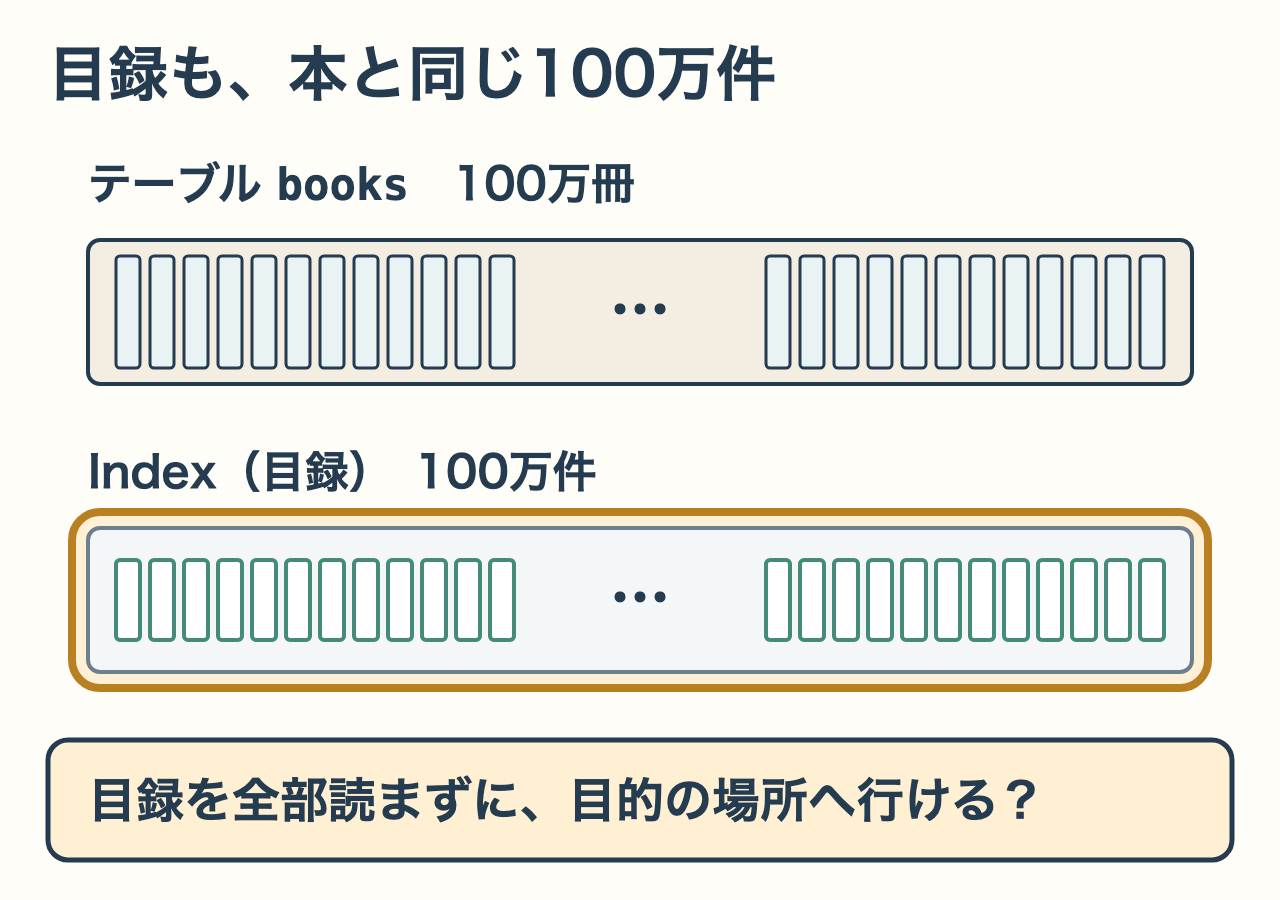
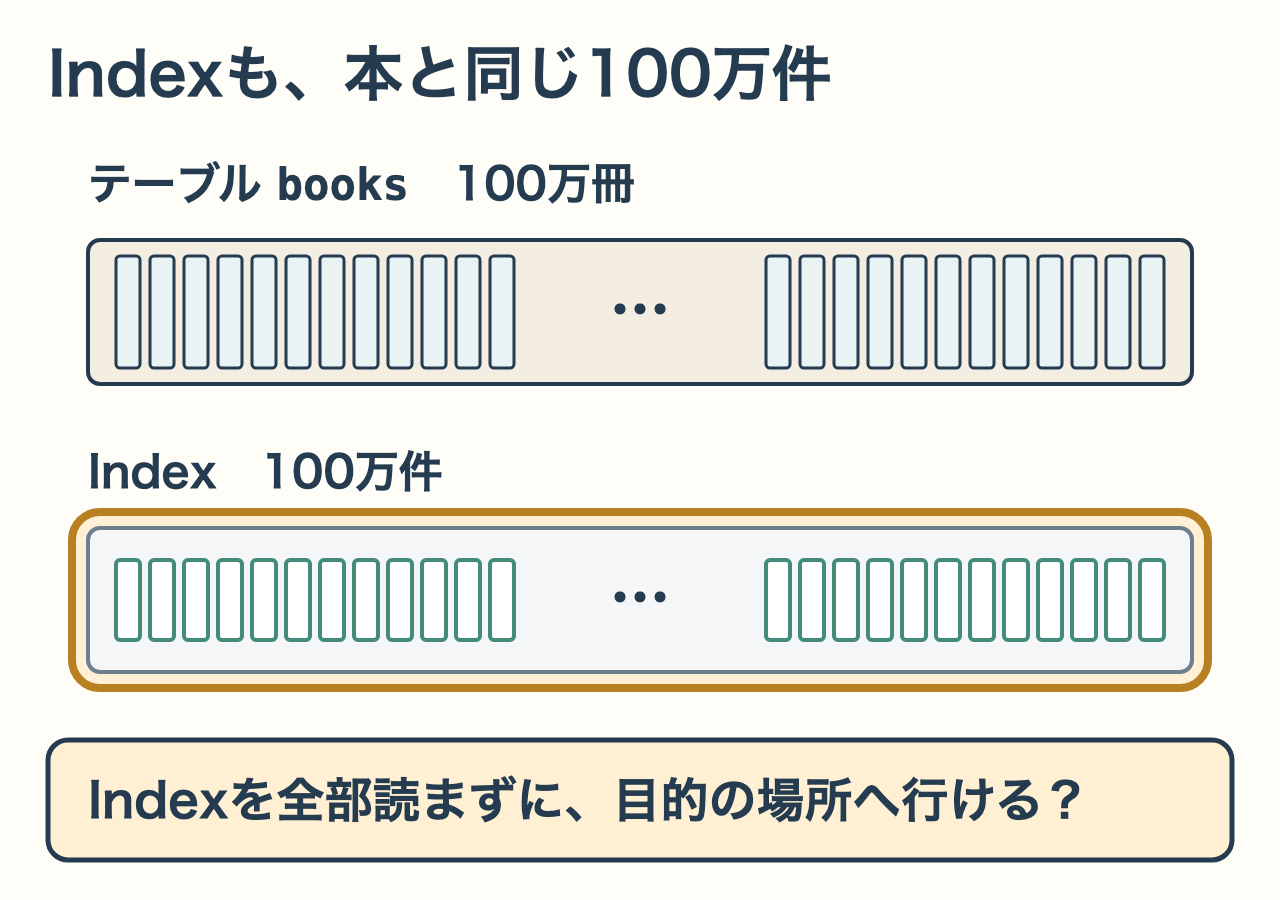
docs(query-journey): 「目録」の言い換えをやめ、Indexと呼ぶ
「目録」がピンとこないという読者の指摘に対応する。第1章でIndexが何かを一文で説明し、第3章と第5章の本文・見出し、図3.1と図5.6の文字も「Index」にそろえる。図は原本のSVGを直して書き出し直した。

Changed region(s): [[0.0625, 0.84, 0.8438, 0.9333], [0.0312, 0.0311, 0.6562, 0.1244], [0.1875, 0.4978, 0.4688, 0.56]]

diff --git a/images/postgresql-query-journey/index.html b/images/postgresql-query-journey/index.html
@@ -1,1 +1,1 @@
-<!doctype html><html lang="ja"><meta charset="utf-8"><meta name="viewport" content="width=device-width, initial-scale=1"><title>PostgreSQL本の図解一覧</title><style>body{margin:0;background:#f3f6f8;color:#243b50;font-family:system-ui,sans-serif}main{max-width:1250px;margin:auto;padding:32px}h1{font-size:28px}p{line-height:1.8}section{margin:48px 0}h2{border-bottom:2px solid #a8c8be;padding-bottom:12px}small{font-weight:400;font-size:16px}.grid{display:grid;grid-template-columns:repeat(3,minmax(0,1fr));gap:20px}article{background:white;border:1px solid #cedae1;border-radius:12px;padding:16px}h3{font-size:16px;min-height:48px}img{width:100%;height:auto;display:block}a{color:#176e65}article p{margin-bottom:0}@media(max-width:900px){.grid{grid-template-columns:repeat(2,minmax(0,1fr))}}@media(max-width:580px){main{padding:16px}.grid{grid-template-columns:1fr}}</style><main><h1>いつものSQLで学ぶデータ構造とアルゴリズム</h1><p>序章から第12章まで、計66枚。全体を見渡す絵、各章のサービスの場面、仕組みを理解する技術図を掲載しています。</p><section><h2>序章 <small>3枚</small></h2><div class="grid"><article><h3>記録は増えても、表示は20冊</h3><a href="00-reading-service.png"><img src="00-reading-service.png" alt="記録は増えても、表示は20冊" loading="lazy"></a><p><a href="sources/00-reading-service.svg">SVG原本</a> · <a href="00-reading-service.png">PNG</a></p></article><article><h3>本ごとに、記録の件数を数える</h3><a href="00-books-and-records.png"><img src="00-books-and-records.png" alt="本ごとに、記録の件数を数える" loading="lazy"></a><p><a href="sources/00-books-and-records.svg">SVG原本</a> · <a href="00-books-and-records.png">PNG</a></p></article><article><h3>200万件から、20件を返す</h3><a href="00-ranking-question.png"><img src="00-ranking-question.png" alt="200万件から、20件を返す" loading="lazy"></a><p><a href="sources/00-ranking-question.svg">SVG原本</a> · <a href="00-ranking-question.png">PNG</a></p></article></div></section><section><h2>第1章 <small>4枚</small></h2><div class="grid"><article><h3>まずは、1冊だけ探してみる</h3><a href="01-search-window.png"><img src="01-search-window.png" alt="まずは、1冊だけ探してみる" loading="lazy"></a><p><a href="sources/01-search-window.svg">SVG原本</a> · <a href="01-search-window.png">PNG</a></p></article><article><h3>どの段階まで進むか</h3><a href="01-explain-stages.png"><img src="01-explain-stages.png" alt="どの段階まで進むか" loading="lazy"></a><p><a href="sources/01-explain-stages.svg">SVG原本</a> · <a href="01-explain-stages.png">PNG</a></p></article><article><h3>1件のために、100万件を比べた</h3><a href="01-scan-and-filter.png"><img src="01-scan-and-filter.png" alt="1件のために、100万件を比べた" loading="lazy"></a><p><a href="sources/01-scan-and-filter.svg">SVG原本</a> · <a href="01-scan-and-filter.png">PNG</a></p></article><article><h3>Indexで場所を探し、そのレコードだけ読む</h3><a href="01-index-to-row.png"><img src="01-index-to-row.png" alt="Indexで場所を探し、そのレコードだけ読む" loading="lazy"></a><p><a href="sources/01-index-to-row.svg">SVG原本</a> · <a href="01-index-to-row.png">PNG</a></p></article></div></section><section><h2>第2章 <small>4枚</small></h2><div class="grid"><article><h3>見つかったら、止めていい？</h3><a href="05-growing-library.png"><img src="05-growing-library.png" alt="見つかったら、止めていい？" loading="lazy"></a><p><a href="sources/05-growing-library.svg">SVG原本</a> · <a href="05-growing-library.png">PNG</a></p></article><article><h3>一致した後も、最後まで比べる</h3><a href="05-linear-scan.png"><img src="05-linear-scan.png" alt="一致した後も、最後まで比べる" loading="lazy"></a><p><a href="sources/05-linear-scan.svg">SVG原本</a> · <a href="05-linear-scan.png">PNG</a></p></article><article><h3>Limitが次のレコードを求めなくなる</h3><a href="05-limit-search.png"><img src="05-limit-search.png" alt="Limitが次のレコードを求めなくなる" loading="lazy"></a><p><a href="sources/05-limit-search.svg">SVG原本</a> · <a href="05-limit-search.png">PNG</a></p></article><article><h3>位置で変わる検索件数</h3><a href="05-limit-bands.png"><img src="05-limit-bands.png" alt="位置で変わる検索件数" loading="lazy"></a><p><a href="sources/05-limit-bands.svg">SVG原本</a> · <a href="05-limit-bands.png">PNG</a></p></article></div></section><section><h2>第3章 <small>5枚</small></h2><div class="grid"><article><h3>目録も、本と同じ100万件</h3><a href="06-catalog-question.png"><img src="06-catalog-question.png" alt="目録も、本と同じ100万件" loading="lazy"></a><p><a href="sources/06-catalog-question.svg">SVG原本</a> · <a href="06-catalog-question.png">PNG</a></p></article><article><h3>境目を見て、開く箱を選ぶ</h3><a href="06-btree-path.png"><img src="06-btree-path.png" alt="境目を見て、開く箱を選ぶ" loading="lazy"></a><p><a href="sources/06-btree-path.svg">SVG原本</a> · <a href="06-btree-path.png">PNG</a></p></article><article><h3>2段の案内板で、8を探す</h3><a href="06-two-level-path.png"><img src="06-two-level-path.png" alt="2段の案内板で、8を探す" loading="lazy"></a><p><a href="sources/06-two-level-path.svg">SVG原本</a> · <a href="06-two-level-path.png">PNG</a></p></article><article><h3>100万冊でも、読むのは3枚</h3><a href="06-tree-levels.png"><img src="06-tree-levels.png" alt="100万冊でも、読むのは3枚" loading="lazy"></a><p><a href="sources/06-tree-levels.svg">SVG原本</a> · <a href="06-tree-levels.png">PNG</a></p></article><article><h3>4以上8以下なら、隣の箱も開く</h3><a href="06-range-scan.png"><img src="06-range-scan.png" alt="4以上8以下なら、隣の箱も開く" loading="lazy"></a><p><a href="sources/06-range-scan.svg">SVG原本</a> · <a href="06-range-scan.png">PNG</a></p></article></div></section><section><h2>第4章 <small>7枚</small></h2><div class="grid"><article><h3>100万件なのに、7,353回</h3><a href="03-storage-question.png"><img src="03-storage-question.png" alt="100万件なのに、7,353回" loading="lazy"></a><p><a href="sources/03-storage-question.svg">SVG原本</a> · <a href="03-storage-question.png">PNG</a></p></article><article><h3>本5の1件も、ページ0ごと読む</h3><a href="03-pages-and-rows.png"><img src="03-pages-and-rows.png" alt="本5の1件も、ページ0ごと読む" loading="lazy"></a><p><a href="sources/03-pages-and-rows.svg">SVG原本</a> · <a href="03-pages-and-rows.png">PNG</a></p></article><article><h3>ctid = (0,1) が指す場所</h3><a href="03-ctid-location.png"><img src="03-ctid-location.png" alt="ctid = (0,1) が指す場所" loading="lazy"></a><p><a href="sources/03-ctid-location.svg">SVG原本</a> · <a href="03-ctid-location.png">PNG</a></p></article><article><h3>ページの中の並び</h3><a href="03-page-layout.png"><img src="03-page-layout.png" alt="ページの中の並び" loading="lazy"></a><p><a href="sources/03-page-layout.svg">SVG原本</a> · <a href="03-page-layout.png">PNG</a></p></article><article><h3>7,353ページか、4ページか</h3><a href="03-index-reference.png"><img src="03-index-reference.png" alt="7,353ページか、4ページか" loading="lazy"></a><p><a href="sources/03-index-reference.svg">SVG原本</a> · <a href="03-index-reference.png">PNG</a></p></article><article><h3>同じ1,000件でも、8ページと32ページ</h3><a href="03-row-width.png"><img src="03-row-width.png" alt="同じ1,000件でも、8ページと32ページ" loading="lazy"></a><p><a href="sources/03-row-width.svg">SVG原本</a> · <a href="03-row-width.png">PNG</a></p></article><article><h3>1件ごとにかかるバイト数</h3><a href="03-record-bytes.png"><img src="03-record-bytes.png" alt="1件ごとにかかるバイト数" loading="lazy"></a><p><a href="sources/03-record-bytes.svg">SVG原本</a> · <a href="03-record-bytes.png">PNG</a></p></article></div></section><section><h2>第5章 <small>6枚</small></h2><div class="grid"><article><h3>同じ検索を、もう一度</h3><a href="04-repeat-observation.png"><img src="04-repeat-observation.png" alt="同じ検索を、もう一度" loading="lazy"></a><p><a href="sources/04-repeat-observation.svg">SVG原本</a> · <a href="04-repeat-observation.png">PNG</a></p></article><article><h3>読み込んだページを、次も使う</h3><a href="shared-buffer-reuse.png"><img src="shared-buffer-reuse.png" alt="読み込んだページを、次も使う" loading="lazy"></a><p><a href="sources/shared-buffer-reuse.svg">SVG原本</a> · <a href="shared-buffer-reuse.png">PNG</a></p></article><article><h3>ページは再利用、毎回比べる</h3><a href="04-two-levels.png"><img src="04-two-levels.png" alt="ページは再利用、毎回比べる" loading="lazy"></a><p><a href="sources/04-two-levels.svg">SVG原本</a> · <a href="04-two-levels.png">PNG</a></p></article><article><h3>共有バッファがいっぱいのとき</h3><a href="04-buffer-full.png"><img src="04-buffer-full.png" alt="共有バッファがいっぱいのとき" loading="lazy"></a><p><a href="sources/04-buffer-full.svg">SVG原本</a> · <a href="04-buffer-full.png">PNG</a></p></article><article><h3>リングバッファで読むとき</h3><a href="04-ring-buffer.png"><img src="04-ring-buffer.png" alt="リングバッファで読むとき" loading="lazy"></a><p><a href="sources/04-ring-buffer.svg">SVG原本</a> · <a href="04-ring-buffer.png">PNG</a></p></article><article><h3>取りに行く順で、開く回数が変わる</h3><a href="06-bitmap-scan.png"><img src="06-bitmap-scan.png" alt="取りに行く順で、開く回数が変わる" loading="lazy"></a><p><a href="sources/06-bitmap-scan.svg">SVG原本</a> · <a href="06-bitmap-scan.png">PNG</a></p></article></div></section><section><h2>第6章 <small>6枚</small></h2><div class="grid"><article><h3>SQLを受け取る側は、いくつ？</h3><a href="02-client-scene.png"><img src="02-client-scene.png" alt="SQLを受け取る側は、いくつ？" loading="lazy"></a><p><a href="sources/02-client-scene.svg">SVG原本</a> · <a href="02-client-scene.png">PNG</a></p></article><article><h3>接続ごとにプロセスが動く</h3><a href="02-connections.png"><img src="02-connections.png" alt="接続ごとにプロセスが動く" loading="lazy"></a><p><a href="sources/02-connections.svg">SVG原本</a> · <a href="02-connections.png">PNG</a></p></article><article><h3>SQLの文字列から、検索結果が返るまで</h3><a href="02-query-stages.png"><img src="02-query-stages.png" alt="SQLの文字列から、検索結果が返るまで" loading="lazy"></a><p><a href="sources/02-query-stages.svg">SVG原本</a> · <a href="02-query-stages.png">PNG</a></p></article><article><h3>Limitは3件で求めるのをやめる</h3><a href="02-execution-tree.png"><img src="02-execution-tree.png" alt="Limitは3件で求めるのをやめる" loading="lazy"></a><p><a href="sources/02-execution-tree.svg">SVG原本</a> · <a href="02-execution-tree.png">PNG</a></p></article><article><h3>Hash Joinが子を動かす順</h3><a href="02-hash-join-steps.png"><img src="02-hash-join-steps.png" alt="Hash Joinが子を動かす順" loading="lazy"></a><p><a href="sources/02-hash-join-steps.svg">SVG原本</a> · <a href="02-hash-join-steps.png">PNG</a></p></article><article><h3>20件に減るのは、最後の2段</h3><a href="02-ranking-plan-tree.png"><img src="02-ranking-plan-tree.png" alt="20件に減るのは、最後の2段" loading="lazy"></a><p><a href="sources/02-ranking-plan-tree.svg">SVG原本</a> · <a href="02-ranking-plan-tree.png">PNG</a></p></article></div></section><section><h2>第7章 <small>6枚</small></h2><div class="grid"><article><h3>ページの保存場所と、計算の作業場所</h3><a href="04-memory-regions.png"><img src="04-memory-regions.png" alt="ページの保存場所と、計算の作業場所" loading="lazy"></a><p><a href="sources/04-memory-regions.svg">SVG原本</a> · <a href="04-memory-regions.png">PNG</a></p></article><article><h3>読み終えた順に、並べたい</h3><a href="07-recent-records.png"><img src="07-recent-records.png" alt="読み終えた順に、並べたい" loading="lazy"></a><p><a href="sources/07-recent-records.svg">SVG原本</a> · <a href="07-recent-records.png">PNG</a></p></article><article><h3>基準の値で分けて並べる</h3><a href="07-quicksort-cards.png"><img src="07-quicksort-cards.png" alt="基準の値で分けて並べる" loading="lazy"></a><p><a href="sources/07-quicksort-cards.svg">SVG原本</a> · <a href="07-quicksort-cards.png">PNG</a></p></article><article><h3>200万件を調べ、4分の1を並べた</h3><a href="07-sort-bands.png"><img src="07-sort-bands.png" alt="200万件を調べ、4分の1を並べた" loading="lazy"></a><p><a href="sources/07-sort-bands.svg">SVG原本</a> · <a href="07-sort-bands.png">PNG</a></p></article><article><h3>メモリに収まらないときの並べ替え</h3><a href="07-external-sort.png"><img src="07-external-sort.png" alt="メモリに収まらないときの並べ替え" loading="lazy"></a><p><a href="sources/07-external-sort.svg">SVG原本</a> · <a href="07-external-sort.png">PNG</a></p></article><article><h3>2枚ずつ並べて、合流する</h3><a href="07-merge-cards.png"><img src="07-merge-cards.png" alt="2枚ずつ並べて、合流する" loading="lazy"></a><p><a href="sources/07-merge-cards.svg">SVG原本</a> · <a href="07-merge-cards.png">PNG</a></p></article></div></section><section><h2>第8章 <small>4枚</small></h2><div class="grid"><article><h3>画面に欲しいのは、最新20件</h3><a href="08-twenty-window.png"><img src="08-twenty-window.png" alt="画面に欲しいのは、最新20件" loading="lazy"></a><p><a href="sources/08-twenty-window.svg">SVG原本</a> · <a href="08-twenty-window.png">PNG</a></p></article><article><h3>ヒープで上位3枚を残す</h3><a href="top-three-heap.png"><img src="top-three-heap.png" alt="ヒープで上位3枚を残す" loading="lazy"></a><p><a href="sources/top-three-heap.svg">SVG原本</a> · <a href="top-three-heap.png">PNG</a></p></article><article><h3>LIMITで減る保持量と出力件数</h3><a href="08-sort-vs-topn.png"><img src="08-sort-vs-topn.png" alt="LIMITで減る保持量と出力件数" loading="lazy"></a><p><a href="sources/08-sort-vs-topn.svg">SVG原本</a> · <a href="08-sort-vs-topn.png">PNG</a></p></article><article><h3>全部読むか、3件で止まるか</h3><a href="08-top-n-vs-index.png"><img src="08-top-n-vs-index.png" alt="全部読むか、3件で止まるか" loading="lazy"></a><p><a href="sources/08-top-n-vs-index.svg">SVG原本</a> · <a href="08-top-n-vs-index.png">PNG</a></p></article></div></section><section><h2>第9章 <small>7枚</small></h2><div class="grid"><article><h3>本の番号だけでは、題名が分からない</h3><a href="09-title-lookup.png"><img src="09-title-lookup.png" alt="本の番号だけでは、題名が分からない" loading="lazy"></a><p><a href="sources/09-title-lookup.svg">SVG原本</a> · <a href="09-title-lookup.png">PNG</a></p></article><article><h3>外側のレコードごとに、内側を1回たどる</h3><a href="09-nested-loop.png"><img src="09-nested-loop.png" alt="外側のレコードごとに、内側を1回たどる" loading="lazy"></a><p><a href="sources/09-nested-loop.svg">SVG原本</a> · <a href="09-nested-loop.png">PNG</a></p></article><article><h3>1回1件を20回で、20件</h3><a href="09-loops.png"><img src="09-loops.png" alt="1回1件を20回で、20件" loading="lazy"></a><p><a href="sources/09-loops.svg">SVG原本</a> · <a href="09-loops.png">PNG</a></p></article><article><h3>先に分類し、同じ箱の中で照合する</h3><a href="09-hash-join.png"><img src="09-hash-join.png" alt="先に分類し、同じ箱の中で照合する" loading="lazy"></a><p><a href="sources/09-hash-join.svg">SVG原本</a> · <a href="09-hash-join.png">PNG</a></p></article><article><h3>同じ番号の組を、漏らさず返す</h3><a href="09-merge-join.png"><img src="09-merge-join.png" alt="同じ番号の組を、漏らさず返す" loading="lazy"></a><p><a href="sources/09-merge-join.svg">SVG原本</a> · <a href="09-merge-join.png">PNG</a></p></article><article><h3>組に分けて、1組ずつ照合する</h3><a href="09-hash-batches.png"><img src="09-hash-batches.png" alt="組に分けて、1組ずつ照合する" loading="lazy"></a><p><a href="sources/09-hash-batches.svg">SVG原本</a> · <a href="09-hash-batches.png">PNG</a></p></article><article><h3>収まらない本は、後で数える</h3><a href="09-hashagg-spill.png"><img src="09-hashagg-spill.png" alt="収まらない本は、後で数える" loading="lazy"></a><p><a href="sources/09-hashagg-spill.svg">SVG原本</a> · <a href="09-hashagg-spill.png">PNG</a></p></article></div></section><section><h2>第10章 <small>5枚</small></h2><div class="grid"><article><h3>計画は、1件も読まずに決まる</h3><a href="10-planner-choice.png"><img src="10-planner-choice.png" alt="計画は、1件も読まずに決まる" loading="lazy"></a><p><a href="sources/10-planner-choice.svg">SVG原本</a> · <a href="10-planner-choice.png">PNG</a></p></article><article><h3>割合のメモから、レコード数を見積もる</h3><a href="10-stats-to-rows.png"><img src="10-stats-to-rows.png" alt="割合のメモから、レコード数を見積もる" loading="lazy"></a><p><a href="sources/10-stats-to-rows.svg">SVG原本</a> · <a href="10-stats-to-rows.png">PNG</a></p></article><article><h3>範囲がかかる区間の割合</h3><a href="10-range-estimate.png"><img src="10-range-estimate.png" alt="範囲がかかる区間の割合" loading="lazy"></a><p><a href="sources/10-range-estimate.svg">SVG原本</a> · <a href="10-range-estimate.png">PNG</a></p></article><article><h3>抜き出しに現れない本がある</h3><a href="10-sample-distinct.png"><img src="10-sample-distinct.png" alt="抜き出しに現れない本がある" loading="lazy"></a><p><a href="sources/10-sample-distinct.svg">SVG原本</a> · <a href="10-sample-distinct.png">PNG</a></p></article><article><h3>推定のずれが、後ろの件数に効く</h3><a href="10-estimate-propagation.png"><img src="10-estimate-propagation.png" alt="推定のずれが、後ろの件数に効く" loading="lazy"></a><p><a href="sources/10-estimate-propagation.svg">SVG原本</a> · <a href="10-estimate-propagation.png">PNG</a></p></article></div></section><section><h2>第11章 <small>4枚</small></h2><div class="grid"><article><h3>題名を直している間に、読まれたら？</h3><a href="11-editing-scene.png"><img src="11-editing-scene.png" alt="題名を直している間に、読まれたら？" loading="lazy"></a><p><a href="sources/11-editing-scene.svg">SVG原本</a> · <a href="11-editing-scene.png">PNG</a></p></article><article><h3>Bが確定しても、Aは版1を読む</h3><a href="11-snapshots.png"><img src="11-snapshots.png" alt="Bが確定しても、Aは版1を読む" loading="lazy"></a><p><a href="sources/11-snapshots.svg">SVG原本</a> · <a href="11-snapshots.png">PNG</a></p></article><article><h3>印が消えると、テーブルを見る</h3><a href="11-visibility-map.png"><img src="11-visibility-map.png" alt="印が消えると、テーブルを見る" loading="lazy"></a><p><a href="sources/11-visibility-map.svg">SVG原本</a> · <a href="11-visibility-map.png">PNG</a></p></article><article><h3>ログの保存と、ページの書き出し</h3><a href="11-wal-and-pages.png"><img src="11-wal-and-pages.png" alt="ログの保存と、ページの書き出し" loading="lazy"></a><p><a href="sources/11-wal-and-pages.svg">SVG原本</a> · <a href="11-wal-and-pages.png">PNG</a></p></article></div></section><section><h2>第12章 <small>5枚</small></h2><div class="grid"><article><h3>今度は、根拠を持って選べる</h3><a href="12-decision-notebook.png"><img src="12-decision-notebook.png" alt="今度は、根拠を持って選べる" loading="lazy"></a><p><a href="sources/12-decision-notebook.svg">SVG原本</a> · <a href="12-decision-notebook.png">PNG</a></p></article><article><h3>題名を付けてから、上位を選ぶ</h3><a href="12-ranking-before.png"><img src="12-ranking-before.png" alt="題名を付けてから、上位を選ぶ" loading="lazy"></a><p><a href="sources/12-ranking-before.svg">SVG原本</a> · <a href="12-ranking-before.png">PNG</a></p></article><article><h3>上位を選んでから、題名を付ける</h3><a href="12-ranking-after.png"><img src="12-ranking-after.png" alt="上位を選んでから、題名を付ける" loading="lazy"></a><p><a href="sources/12-ranking-after.svg">SVG原本</a> · <a href="12-ranking-after.png">PNG</a></p></article><article><h3>集計テーブルは更新するまで古いまま</h3><a href="12-preaggregation.png"><img src="12-preaggregation.png" alt="集計テーブルは更新するまで古いまま" loading="lazy"></a><p><a href="sources/12-preaggregation.svg">SVG原本</a> · <a href="12-preaggregation.png">PNG</a></p></article><article><h3>3案で、扱う記録の数</h3><a href="12-plan-record-counts.png"><img src="12-plan-record-counts.png" alt="3案で、扱う記録の数" loading="lazy"></a><p><a href="sources/12-plan-record-counts.svg">SVG原本</a> · <a href="12-plan-record-counts.png">PNG</a></p></article></div></section></main></html>
+<!doctype html><html lang="ja"><meta charset="utf-8"><meta name="viewport" content="width=device-width, initial-scale=1"><title>PostgreSQL本の図解一覧</title><style>body{margin:0;background:#f3f6f8;color:#243b50;font-family:system-ui,sans-serif}main{max-width:1250px;margin:auto;padding:32px}h1{font-size:28px}p{line-height:1.8}section{margin:48px 0}h2{border-bottom:2px solid #a8c8be;padding-bottom:12px}small{font-weight:400;font-size:16px}.grid{display:grid;grid-template-columns:repeat(3,minmax(0,1fr));gap:20px}article{background:white;border:1px solid #cedae1;border-radius:12px;padding:16px}h3{font-size:16px;min-height:48px}img{width:100%;height:auto;display:block}a{color:#176e65}article p{margin-bottom:0}@media(max-width:900px){.grid{grid-template-columns:repeat(2,minmax(0,1fr))}}@media(max-width:580px){main{padding:16px}.grid{grid-template-columns:1fr}}</style><main><h1>いつものSQLで学ぶデータ構造とアルゴリズム</h1><p>序章から第12章まで、計66枚。全体を見渡す絵、各章のサービスの場面、仕組みを理解する技術図を掲載しています。</p><section><h2>序章 <small>3枚</small></h2><div class="grid"><article><h3>記録は増えても、表示は20冊</h3><a href="00-reading-service.png"><img src="00-reading-service.png" alt="記録は増えても、表示は20冊" loading="lazy"></a><p><a href="sources/00-reading-service.svg">SVG原本</a> · <a href="00-reading-service.png">PNG</a></p></article><article><h3>本ごとに、記録の件数を数える</h3><a href="00-books-and-records.png"><img src="00-books-and-records.png" alt="本ごとに、記録の件数を数える" loading="lazy"></a><p><a href="sources/00-books-and-records.svg">SVG原本</a> · <a href="00-books-and-records.png">PNG</a></p></article><article><h3>200万件から、20件を返す</h3><a href="00-ranking-question.png"><img src="00-ranking-question.png" alt="200万件から、20件を返す" loading="lazy"></a><p><a href="sources/00-ranking-question.svg">SVG原本</a> · <a href="00-ranking-question.png">PNG</a></p></article></div></section><section><h2>第1章 <small>4枚</small></h2><div class="grid"><article><h3>まずは、1冊だけ探してみる</h3><a href="01-search-window.png"><img src="01-search-window.png" alt="まずは、1冊だけ探してみる" loading="lazy"></a><p><a href="sources/01-search-window.svg">SVG原本</a> · <a href="01-search-window.png">PNG</a></p></article><article><h3>どの段階まで進むか</h3><a href="01-explain-stages.png"><img src="01-explain-stages.png" alt="どの段階まで進むか" loading="lazy"></a><p><a href="sources/01-explain-stages.svg">SVG原本</a> · <a href="01-explain-stages.png">PNG</a></p></article><article><h3>1件のために、100万件を比べた</h3><a href="01-scan-and-filter.png"><img src="01-scan-and-filter.png" alt="1件のために、100万件を比べた" loading="lazy"></a><p><a href="sources/01-scan-and-filter.svg">SVG原本</a> · <a href="01-scan-and-filter.png">PNG</a></p></article><article><h3>Indexで場所を探し、そのレコードだけ読む</h3><a href="01-index-to-row.png"><img src="01-index-to-row.png" alt="Indexで場所を探し、そのレコードだけ読む" loading="lazy"></a><p><a href="sources/01-index-to-row.svg">SVG原本</a> · <a href="01-index-to-row.png">PNG</a></p></article></div></section><section><h2>第2章 <small>4枚</small></h2><div class="grid"><article><h3>見つかったら、止めていい？</h3><a href="05-growing-library.png"><img src="05-growing-library.png" alt="見つかったら、止めていい？" loading="lazy"></a><p><a href="sources/05-growing-library.svg">SVG原本</a> · <a href="05-growing-library.png">PNG</a></p></article><article><h3>一致した後も、最後まで比べる</h3><a href="05-linear-scan.png"><img src="05-linear-scan.png" alt="一致した後も、最後まで比べる" loading="lazy"></a><p><a href="sources/05-linear-scan.svg">SVG原本</a> · <a href="05-linear-scan.png">PNG</a></p></article><article><h3>Limitが次のレコードを求めなくなる</h3><a href="05-limit-search.png"><img src="05-limit-search.png" alt="Limitが次のレコードを求めなくなる" loading="lazy"></a><p><a href="sources/05-limit-search.svg">SVG原本</a> · <a href="05-limit-search.png">PNG</a></p></article><article><h3>位置で変わる検索件数</h3><a href="05-limit-bands.png"><img src="05-limit-bands.png" alt="位置で変わる検索件数" loading="lazy"></a><p><a href="sources/05-limit-bands.svg">SVG原本</a> · <a href="05-limit-bands.png">PNG</a></p></article></div></section><section><h2>第3章 <small>5枚</small></h2><div class="grid"><article><h3>Indexも、本と同じ100万件</h3><a href="06-catalog-question.png"><img src="06-catalog-question.png" alt="Indexも、本と同じ100万件" loading="lazy"></a><p><a href="sources/06-catalog-question.svg">SVG原本</a> · <a href="06-catalog-question.png">PNG</a></p></article><article><h3>境目を見て、開く箱を選ぶ</h3><a href="06-btree-path.png"><img src="06-btree-path.png" alt="境目を見て、開く箱を選ぶ" loading="lazy"></a><p><a href="sources/06-btree-path.svg">SVG原本</a> · <a href="06-btree-path.png">PNG</a></p></article><article><h3>2段の案内板で、8を探す</h3><a href="06-two-level-path.png"><img src="06-two-level-path.png" alt="2段の案内板で、8を探す" loading="lazy"></a><p><a href="sources/06-two-level-path.svg">SVG原本</a> · <a href="06-two-level-path.png">PNG</a></p></article><article><h3>100万冊でも、読むのは3枚</h3><a href="06-tree-levels.png"><img src="06-tree-levels.png" alt="100万冊でも、読むのは3枚" loading="lazy"></a><p><a href="sources/06-tree-levels.svg">SVG原本</a> · <a href="06-tree-levels.png">PNG</a></p></article><article><h3>4以上8以下なら、隣の箱も開く</h3><a href="06-range-scan.png"><img src="06-range-scan.png" alt="4以上8以下なら、隣の箱も開く" loading="lazy"></a><p><a href="sources/06-range-scan.svg">SVG原本</a> · <a href="06-range-scan.png">PNG</a></p></article></div></section><section><h2>第4章 <small>7枚</small></h2><div class="grid"><article><h3>100万件なのに、7,353回</h3><a href="03-storage-question.png"><img src="03-storage-question.png" alt="100万件なのに、7,353回" loading="lazy"></a><p><a href="sources/03-storage-question.svg">SVG原本</a> · <a href="03-storage-question.png">PNG</a></p></article><article><h3>本5の1件も、ページ0ごと読む</h3><a href="03-pages-and-rows.png"><img src="03-pages-and-rows.png" alt="本5の1件も、ページ0ごと読む" loading="lazy"></a><p><a href="sources/03-pages-and-rows.svg">SVG原本</a> · <a href="03-pages-and-rows.png">PNG</a></p></article><article><h3>ctid = (0,1) が指す場所</h3><a href="03-ctid-location.png"><img src="03-ctid-location.png" alt="ctid = (0,1) が指す場所" loading="lazy"></a><p><a href="sources/03-ctid-location.svg">SVG原本</a> · <a href="03-ctid-location.png">PNG</a></p></article><article><h3>ページの中の並び</h3><a href="03-page-layout.png"><img src="03-page-layout.png" alt="ページの中の並び" loading="lazy"></a><p><a href="sources/03-page-layout.svg">SVG原本</a> · <a href="03-page-layout.png">PNG</a></p></article><article><h3>7,353ページか、4ページか</h3><a href="03-index-reference.png"><img src="03-index-reference.png" alt="7,353ページか、4ページか" loading="lazy"></a><p><a href="sources/03-index-reference.svg">SVG原本</a> · <a href="03-index-reference.png">PNG</a></p></article><article><h3>同じ1,000件でも、8ページと32ページ</h3><a href="03-row-width.png"><img src="03-row-width.png" alt="同じ1,000件でも、8ページと32ページ" loading="lazy"></a><p><a href="sources/03-row-width.svg">SVG原本</a> · <a href="03-row-width.png">PNG</a></p></article><article><h3>1件ごとにかかるバイト数</h3><a href="03-record-bytes.png"><img src="03-record-bytes.png" alt="1件ごとにかかるバイト数" loading="lazy"></a><p><a href="sources/03-record-bytes.svg">SVG原本</a> · <a href="03-record-bytes.png">PNG</a></p></article></div></section><section><h2>第5章 <small>6枚</small></h2><div class="grid"><article><h3>同じ検索を、もう一度</h3><a href="04-repeat-observation.png"><img src="04-repeat-observation.png" alt="同じ検索を、もう一度" loading="lazy"></a><p><a href="sources/04-repeat-observation.svg">SVG原本</a> · <a href="04-repeat-observation.png">PNG</a></p></article><article><h3>読み込んだページを、次も使う</h3><a href="shared-buffer-reuse.png"><img src="shared-buffer-reuse.png" alt="読み込んだページを、次も使う" loading="lazy"></a><p><a href="sources/shared-buffer-reuse.svg">SVG原本</a> · <a href="shared-buffer-reuse.png">PNG</a></p></article><article><h3>ページは再利用、毎回比べる</h3><a href="04-two-levels.png"><img src="04-two-levels.png" alt="ページは再利用、毎回比べる" loading="lazy"></a><p><a href="sources/04-two-levels.svg">SVG原本</a> · <a href="04-two-levels.png">PNG</a></p></article><article><h3>共有バッファがいっぱいのとき</h3><a href="04-buffer-full.png"><img src="04-buffer-full.png" alt="共有バッファがいっぱいのとき" loading="lazy"></a><p><a href="sources/04-buffer-full.svg">SVG原本</a> · <a href="04-buffer-full.png">PNG</a></p></article><article><h3>リングバッファで読むとき</h3><a href="04-ring-buffer.png"><img src="04-ring-buffer.png" alt="リングバッファで読むとき" loading="lazy"></a><p><a href="sources/04-ring-buffer.svg">SVG原本</a> · <a href="04-ring-buffer.png">PNG</a></p></article><article><h3>取りに行く順で、開く回数が変わる</h3><a href="06-bitmap-scan.png"><img src="06-bitmap-scan.png" alt="取りに行く順で、開く回数が変わる" loading="lazy"></a><p><a href="sources/06-bitmap-scan.svg">SVG原本</a> · <a href="06-bitmap-scan.png">PNG</a></p></article></div></section><section><h2>第6章 <small>6枚</small></h2><div class="grid"><article><h3>SQLを受け取る側は、いくつ？</h3><a href="02-client-scene.png"><img src="02-client-scene.png" alt="SQLを受け取る側は、いくつ？" loading="lazy"></a><p><a href="sources/02-client-scene.svg">SVG原本</a> · <a href="02-client-scene.png">PNG</a></p></article><article><h3>接続ごとにプロセスが動く</h3><a href="02-connections.png"><img src="02-connections.png" alt="接続ごとにプロセスが動く" loading="lazy"></a><p><a href="sources/02-connections.svg">SVG原本</a> · <a href="02-connections.png">PNG</a></p></article><article><h3>SQLの文字列から、検索結果が返るまで</h3><a href="02-query-stages.png"><img src="02-query-stages.png" alt="SQLの文字列から、検索結果が返るまで" loading="lazy"></a><p><a href="sources/02-query-stages.svg">SVG原本</a> · <a href="02-query-stages.png">PNG</a></p></article><article><h3>Limitは3件で求めるのをやめる</h3><a href="02-execution-tree.png"><img src="02-execution-tree.png" alt="Limitは3件で求めるのをやめる" loading="lazy"></a><p><a href="sources/02-execution-tree.svg">SVG原本</a> · <a href="02-execution-tree.png">PNG</a></p></article><article><h3>Hash Joinが子を動かす順</h3><a href="02-hash-join-steps.png"><img src="02-hash-join-steps.png" alt="Hash Joinが子を動かす順" loading="lazy"></a><p><a href="sources/02-hash-join-steps.svg">SVG原本</a> · <a href="02-hash-join-steps.png">PNG</a></p></article><article><h3>20件に減るのは、最後の2段</h3><a href="02-ranking-plan-tree.png"><img src="02-ranking-plan-tree.png" alt="20件に減るのは、最後の2段" loading="lazy"></a><p><a href="sources/02-ranking-plan-tree.svg">SVG原本</a> · <a href="02-ranking-plan-tree.png">PNG</a></p></article></div></section><section><h2>第7章 <small>6枚</small></h2><div class="grid"><article><h3>ページの保存場所と、計算の作業場所</h3><a href="04-memory-regions.png"><img src="04-memory-regions.png" alt="ページの保存場所と、計算の作業場所" loading="lazy"></a><p><a href="sources/04-memory-regions.svg">SVG原本</a> · <a href="04-memory-regions.png">PNG</a></p></article><article><h3>読み終えた順に、並べたい</h3><a href="07-recent-records.png"><img src="07-recent-records.png" alt="読み終えた順に、並べたい" loading="lazy"></a><p><a href="sources/07-recent-records.svg">SVG原本</a> · <a href="07-recent-records.png">PNG</a></p></article><article><h3>基準の値で分けて並べる</h3><a href="07-quicksort-cards.png"><img src="07-quicksort-cards.png" alt="基準の値で分けて並べる" loading="lazy"></a><p><a href="sources/07-quicksort-cards.svg">SVG原本</a> · <a href="07-quicksort-cards.png">PNG</a></p></article><article><h3>200万件を調べ、4分の1を並べた</h3><a href="07-sort-bands.png"><img src="07-sort-bands.png" alt="200万件を調べ、4分の1を並べた" loading="lazy"></a><p><a href="sources/07-sort-bands.svg">SVG原本</a> · <a href="07-sort-bands.png">PNG</a></p></article><article><h3>メモリに収まらないときの並べ替え</h3><a href="07-external-sort.png"><img src="07-external-sort.png" alt="メモリに収まらないときの並べ替え" loading="lazy"></a><p><a href="sources/07-external-sort.svg">SVG原本</a> · <a href="07-external-sort.png">PNG</a></p></article><article><h3>2枚ずつ並べて、合流する</h3><a href="07-merge-cards.png"><img src="07-merge-cards.png" alt="2枚ずつ並べて、合流する" loading="lazy"></a><p><a href="sources/07-merge-cards.svg">SVG原本</a> · <a href="07-merge-cards.png">PNG</a></p></article></div></section><section><h2>第8章 <small>4枚</small></h2><div class="grid"><article><h3>画面に欲しいのは、最新20件</h3><a href="08-twenty-window.png"><img src="08-twenty-window.png" alt="画面に欲しいのは、最新20件" loading="lazy"></a><p><a href="sources/08-twenty-window.svg">SVG原本</a> · <a href="08-twenty-window.png">PNG</a></p></article><article><h3>ヒープで上位3枚を残す</h3><a href="top-three-heap.png"><img src="top-three-heap.png" alt="ヒープで上位3枚を残す" loading="lazy"></a><p><a href="sources/top-three-heap.svg">SVG原本</a> · <a href="top-three-heap.png">PNG</a></p></article><article><h3>LIMITで減る保持量と出力件数</h3><a href="08-sort-vs-topn.png"><img src="08-sort-vs-topn.png" alt="LIMITで減る保持量と出力件数" loading="lazy"></a><p><a href="sources/08-sort-vs-topn.svg">SVG原本</a> · <a href="08-sort-vs-topn.png">PNG</a></p></article><article><h3>全部読むか、3件で止まるか</h3><a href="08-top-n-vs-index.png"><img src="08-top-n-vs-index.png" alt="全部読むか、3件で止まるか" loading="lazy"></a><p><a href="sources/08-top-n-vs-index.svg">SVG原本</a> · <a href="08-top-n-vs-index.png">PNG</a></p></article></div></section><section><h2>第9章 <small>7枚</small></h2><div class="grid"><article><h3>本の番号だけでは、題名が分からない</h3><a href="09-title-lookup.png"><img src="09-title-lookup.png" alt="本の番号だけでは、題名が分からない" loading="lazy"></a><p><a href="sources/09-title-lookup.svg">SVG原本</a> · <a href="09-title-lookup.png">PNG</a></p></article><article><h3>外側のレコードごとに、内側を1回たどる</h3><a href="09-nested-loop.png"><img src="09-nested-loop.png" alt="外側のレコードごとに、内側を1回たどる" loading="lazy"></a><p><a href="sources/09-nested-loop.svg">SVG原本</a> · <a href="09-nested-loop.png">PNG</a></p></article><article><h3>1回1件を20回で、20件</h3><a href="09-loops.png"><img src="09-loops.png" alt="1回1件を20回で、20件" loading="lazy"></a><p><a href="sources/09-loops.svg">SVG原本</a> · <a href="09-loops.png">PNG</a></p></article><article><h3>先に分類し、同じ箱の中で照合する</h3><a href="09-hash-join.png"><img src="09-hash-join.png" alt="先に分類し、同じ箱の中で照合する" loading="lazy"></a><p><a href="sources/09-hash-join.svg">SVG原本</a> · <a href="09-hash-join.png">PNG</a></p></article><article><h3>同じ番号の組を、漏らさず返す</h3><a href="09-merge-join.png"><img src="09-merge-join.png" alt="同じ番号の組を、漏らさず返す" loading="lazy"></a><p><a href="sources/09-merge-join.svg">SVG原本</a> · <a href="09-merge-join.png">PNG</a></p></article><article><h3>組に分けて、1組ずつ照合する</h3><a href="09-hash-batches.png"><img src="09-hash-batches.png" alt="組に分けて、1組ずつ照合する" loading="lazy"></a><p><a href="sources/09-hash-batches.svg">SVG原本</a> · <a href="09-hash-batches.png">PNG</a></p></article><article><h3>収まらない本は、後で数える</h3><a href="09-hashagg-spill.png"><img src="09-hashagg-spill.png" alt="収まらない本は、後で数える" loading="lazy"></a><p><a href="sources/09-hashagg-spill.svg">SVG原本</a> · <a href="09-hashagg-spill.png">PNG</a></p></article></div></section><section><h2>第10章 <small>5枚</small></h2><div class="grid"><article><h3>計画は、1件も読まずに決まる</h3><a href="10-planner-choice.png"><img src="10-planner-choice.png" alt="計画は、1件も読まずに決まる" loading="lazy"></a><p><a href="sources/10-planner-choice.svg">SVG原本</a> · <a href="10-planner-choice.png">PNG</a></p></article><article><h3>割合のメモから、レコード数を見積もる</h3><a href="10-stats-to-rows.png"><img src="10-stats-to-rows.png" alt="割合のメモから、レコード数を見積もる" loading="lazy"></a><p><a href="sources/10-stats-to-rows.svg">SVG原本</a> · <a href="10-stats-to-rows.png">PNG</a></p></article><article><h3>範囲がかかる区間の割合</h3><a href="10-range-estimate.png"><img src="10-range-estimate.png" alt="範囲がかかる区間の割合" loading="lazy"></a><p><a href="sources/10-range-estimate.svg">SVG原本</a> · <a href="10-range-estimate.png">PNG</a></p></article><article><h3>抜き出しに現れない本がある</h3><a href="10-sample-distinct.png"><img src="10-sample-distinct.png" alt="抜き出しに現れない本がある" loading="lazy"></a><p><a href="sources/10-sample-distinct.svg">SVG原本</a> · <a href="10-sample-distinct.png">PNG</a></p></article><article><h3>推定のずれが、後ろの件数に効く</h3><a href="10-estimate-propagation.png"><img src="10-estimate-propagation.png" alt="推定のずれが、後ろの件数に効く" loading="lazy"></a><p><a href="sources/10-estimate-propagation.svg">SVG原本</a> · <a href="10-estimate-propagation.png">PNG</a></p></article></div></section><section><h2>第11章 <small>4枚</small></h2><div class="grid"><article><h3>題名を直している間に、読まれたら？</h3><a href="11-editing-scene.png"><img src="11-editing-scene.png" alt="題名を直している間に、読まれたら？" loading="lazy"></a><p><a href="sources/11-editing-scene.svg">SVG原本</a> · <a href="11-editing-scene.png">PNG</a></p></article><article><h3>Bが確定しても、Aは版1を読む</h3><a href="11-snapshots.png"><img src="11-snapshots.png" alt="Bが確定しても、Aは版1を読む" loading="lazy"></a><p><a href="sources/11-snapshots.svg">SVG原本</a> · <a href="11-snapshots.png">PNG</a></p></article><article><h3>印が消えると、テーブルを見る</h3><a href="11-visibility-map.png"><img src="11-visibility-map.png" alt="印が消えると、テーブルを見る" loading="lazy"></a><p><a href="sources/11-visibility-map.svg">SVG原本</a> · <a href="11-visibility-map.png">PNG</a></p></article><article><h3>ログの保存と、ページの書き出し</h3><a href="11-wal-and-pages.png"><img src="11-wal-and-pages.png" alt="ログの保存と、ページの書き出し" loading="lazy"></a><p><a href="sources/11-wal-and-pages.svg">SVG原本</a> · <a href="11-wal-and-pages.png">PNG</a></p></article></div></section><section><h2>第12章 <small>5枚</small></h2><div class="grid"><article><h3>今度は、根拠を持って選べる</h3><a href="12-decision-notebook.png"><img src="12-decision-notebook.png" alt="今度は、根拠を持って選べる" loading="lazy"></a><p><a href="sources/12-decision-notebook.svg">SVG原本</a> · <a href="12-decision-notebook.png">PNG</a></p></article><article><h3>題名を付けてから、上位を選ぶ</h3><a href="12-ranking-before.png"><img src="12-ranking-before.png" alt="題名を付けてから、上位を選ぶ" loading="lazy"></a><p><a href="sources/12-ranking-before.svg">SVG原本</a> · <a href="12-ranking-before.png">PNG</a></p></article><article><h3>上位を選んでから、題名を付ける</h3><a href="12-ranking-after.png"><img src="12-ranking-after.png" alt="上位を選んでから、題名を付ける" loading="lazy"></a><p><a href="sources/12-ranking-after.svg">SVG原本</a> · <a href="12-ranking-after.png">PNG</a></p></article><article><h3>集計テーブルは更新するまで古いまま</h3><a href="12-preaggregation.png"><img src="12-preaggregation.png" alt="集計テーブルは更新するまで古いまま" loading="lazy"></a><p><a href="sources/12-preaggregation.svg">SVG原本</a> · <a href="12-preaggregation.png">PNG</a></p></article><article><h3>3案で、扱う記録の数</h3><a href="12-plan-record-counts.png"><img src="12-plan-record-counts.png" alt="3案で、扱う記録の数" loading="lazy"></a><p><a href="sources/12-plan-record-counts.svg">SVG原本</a> · <a href="12-plan-record-counts.png">PNG</a></p></article></div></section></main></html>

diff --git a/books/postgresql-query-journey/05-memory-and-buffers.md b/books/postgresql-query-journey/05-memory-and-buffers.md
@@ -242,13 +242,13 @@ Seq Scanが輪を使うのは、共有バッファにないページを読み込
 
 ここまでで、観察用テーブルの同じ8ページが1回目は`read=8`、2回目は`hit=8`になり、100万冊の`books`では輪を使い回して読むので、2回目にも`read`が残ることを見ました。どちらも、ページが共有バッファに残っていたかどうかの違いです。
 
-## 目録の順番と、棚の順番が違うとき
+## Indexの順番と、テーブルのページの順番が違うとき
 
 ここからは、第3章で作った題名のIndex`books_title_idx`を使って、100万冊の`books`を探します。
 
 第3章では、番号のIndexがあっても、11冊を探すときは`Index Scan`、90万冊を探すときは`Seq Scan`が選ばれました。その間の件数では、どんな探し方になるのでしょうか。今度は題名の範囲で探します。題名が「実験用の本 4」で始まる本をすべて取り出します。このデータでは、「実験用の本 4」以上「実験用の本 5」未満の題名を持つ本と同じになるので、その範囲を条件にします。番号でいえば4、40〜49、400〜499、4000〜4999、40000〜49999、400000〜499999の本で、合わせて111,111冊です。100万冊の約1割にあたります。
 
-### 目録の順に取りに行くと、同じページに何度も戻る
+### Indexの順に取りに行くと、同じページに何度も戻る
 
 Indexで場所が分かるなら、11冊のときのように、そのまま1冊ずつ取りに行けばよさそうです。そのとき、テーブルのページはどの順に開くことになるでしょうか。題名のIndexが、この範囲の本をどの順に並べているかを見てみます。`ORDER BY title`で題名の順に並べ、先頭の17冊を取り出します。第4章の`ctid`も一緒に表示して、各レコードがどのページにあるかを確かめます。
 
@@ -280,13 +280,13 @@ ORDER BY title LIMIT 17;
 
 題名は文字として並ぶので、「実験用の本 4」の次は「実験用の本 40」、その次は「実験用の本 400」です。番号でいえば4、40、400、4000、40000、400000と、桁が一つずつ増えていきます。その先は、400009の次に40001が来て、その次は400010に戻ります。
 
-一方、テーブルのレコードは番号の順にページへ並んでいます。`ctid`の左側の数がページ番号です。400000から400010までは、どれもページ2941に固まっていますが、その間に来る40001はページ294にあります。目録の順に1冊ずつ取りに行くと、ページ2941とページ294を行ったり来たりして、同じページを何度も開くことになります。第4章で見たとおり、`Buffers`は同じページを繰り返し使えばその分も数えるので、開き直した回数はアクセスの回数に表れます。
+一方、テーブルのレコードは番号の順にページへ並んでいます。`ctid`の左側の数がページ番号です。400000から400010までは、どれもページ2941に固まっていますが、その間に来る40001はページ294にあります。Indexの順に1冊ずつ取りに行くと、ページ2941とページ294を行ったり来たりして、同じページを何度も開くことになります。第4章で見たとおり、`Buffers`は同じページを繰り返し使えばその分も数えるので、開き直した回数はアクセスの回数に表れます。
 
-そこでPostgreSQLは、先に目録からレコードの場所を集め、ページごとにまとめてから、ページ番号の順にテーブルを読みます。ページ番号だけでなく、そのページの中のどのレコードを取り出すかも印で保持します。この、対象のレコード位置をまとめたものを**ビットマップ**と呼びます。
+そこでPostgreSQLは、先にIndexからレコードの場所を集め、ページごとにまとめてから、ページ番号の順にテーブルを読みます。ページ番号だけでなく、そのページの中のどのレコードを取り出すかも印で保持します。この、対象のレコード位置をまとめたものを**ビットマップ**と呼びます。
 
-ビットマップを作る段階が`Bitmap Index Scan`、それを使ってテーブルを読む段階が`Bitmap Heap Scan`です。同じページにある対象レコードをまとめて取り出せるので、目録の順にページを行き来せずに済みます。図5.6で、二つの読み方で開く回数がどう変わるかを見てください。
+ビットマップを作る段階が`Bitmap Index Scan`、それを使ってテーブルを読む段階が`Bitmap Heap Scan`です。同じページにある対象レコードをまとめて取り出せるので、Indexの順にページを行き来せずに済みます。図5.6で、二つの読み方で開く回数がどう変わるかを見てください。
 
-![目録の順に取りに行くとページ294と2941を行き来して5回開くが、ビットマップに集めてからならページ番号の順に2回で済む](/images/postgresql-query-journey/06-bitmap-scan.png)
+![Indexの順に取りに行くとページ294と2941を行き来して5回開くが、ビットマップに集めてからならページ番号の順に2回で済む](/images/postgresql-query-journey/06-bitmap-scan.png)
 *図5.6　題名の順に17冊を並べた本文の出力のうち、5冊（40000、400000、400009、40001、400010）を取りに行く例です。下のビットマップは、この5冊のレコードの位置を数字で示しています。ページ番号とレコード位置は、その出力の`ctid`のとおりです。ビット自体の配置は描かず、どの位置を覚えるかを説明するための図です。*
 
 ### 1割の本を、題名の範囲で探す

diff --git a/books/postgresql-query-journey/03-btree-index.md b/books/postgresql-query-journey/03-btree-index.md
@@ -6,14 +6,14 @@ title: "第3章：B-treeは、どうやって探す場所を絞るのか"
 
 Indexにも100万冊分の情報があるのに、なぜ全件を調べずに探せるのでしょうか。番号1〜9の図で、範囲を絞って探す仕組みを確かめます。その後、題名のIndexを作って同じ検索を比べ、探す範囲を広げると選ばれる方法がどう変わるかを観察します。最後に、Indexが使う保存容量と、追加や更新のたびにかかる負担を測ります。
 
-## 目録も大きいのに、どう探す？
+## Indexも大きいのに、どう探す？
 
-ここまで、100万冊から1冊を探してきました。題名を順番に比べると、多くのレコードを読む必要があります。一方、番号検索はIndexという目録を使えました。
+ここまで、100万冊から1冊を探してきました。題名を順番に比べると、多くのレコードを読む必要があります。一方、番号検索はIndexを使えました。
 
 でも、Indexにも100万冊分の情報があるはずです。Indexを先頭から全部読んでいたら、あまり助けにならなそうです。
 
-![本100万冊の棚と同じ長さで、Indexの目録にも100万件が並ぶ](/images/postgresql-query-journey/06-catalog-question.png)
-*図3.1　本の棚と同じ長さで並ぶ、目録の100万件を見てください（説明するための図）。*
+![本100万冊の棚と同じ長さで、Indexにも100万件が並ぶ](/images/postgresql-query-journey/06-catalog-question.png)
+*図3.1　本の棚と同じ長さで並ぶ、Indexの100万件を見てください（説明するための図）。*
 
 ## 番号の範囲から、探す先を選ぶ
 
@@ -227,7 +227,7 @@ SELECT pg_size_pretty(pg_relation_size('books_title_idx'));
 
 今回の題名用のIndexは、テーブルとは別に39 MBの保存領域を使っていました。これはIndexの格納領域の大きさで、1回の検索で39 MBすべてを読むという意味ではありません。
 
-保存容量に加えて、更新の負担もあります。本を1冊増やすなら、テーブルだけでなく目録にも書き足す必要があります。題名を変更するなら、題名のIndexも書き換える必要があります。Indexのページがいっぱいなら、分割などの調整も必要になります。毎回分割するわけではありませんが、レコードを追加したり、Indexの列を更新したりすると、Indexのページも書き換えが必要になります。
+保存容量に加えて、更新の負担もあります。本を1冊増やすなら、テーブルだけでなくIndexにも書き足す必要があります。題名を変更するなら、題名のIndexも書き換える必要があります。Indexのページがいっぱいなら、分割などの調整も必要になります。毎回分割するわけではありませんが、レコードを追加したり、Indexの列を更新したりすると、Indexのページも書き換えが必要になります。
 
 どれくらい重くなるかを、読了記録と同じ形の空のテーブルに10万件を追加して比べました。2026年9月28日に3回ずつ測った中央値です。追加する10万件は`reading_records`から読んでいるので、その時間も三つに同じだけ含まれます。
 

diff --git a/books/postgresql-query-journey/01-explain-basics.md b/books/postgresql-query-journey/01-explain-basics.md
@@ -50,7 +50,7 @@ SELECT id, title FROM books WHERE title = '実験用の本 42';
 
 **EXPLAIN**（エクスプレイン）を使うと、PostgreSQLがSQLをどんな手順で処理するかを、実行する前に表示できます。この手順を**実行計画**と呼びます。
 
-たとえば同じ1冊を探すにも、テーブルを順に調べる方法や、本の番号から場所を引く目録を使って探す方法があります。どの方法を使うか、何件返りそうか、といった情報をEXPLAINで確認できます。
+たとえば同じ1冊を探すにも、テーブルを順に調べる方法や、本の番号からレコードの場所を引ける一覧を使って探す方法があります。どの方法を使うか、何件返りそうか、といった情報をEXPLAINで確認できます。
 
 使い方は、調べたいSQLの先頭に`EXPLAIN`を付けるだけです。まずは実行計画だけを見てみましょう。
 
@@ -174,7 +174,7 @@ Planning:
 
 今度は`Rows Removed by Filter`がありません。条件に合わないレコードを読んで除外する代わりに、`Index Cond`の条件でレコードの場所を探しています。
 
-`Index Scan`は、**Index**（索引）という目録を使ってレコードを探す方法です。「準備」の章で主キーを作ったとき、番号用のIndexも作られています。番号の検索で100万件を調べずに済んだのは、番号を重複させない約束があるからではなく、このIndexを使えたからです[^pk-seqscan]。題名用のIndexはまだありません。
+`Index Scan`は、**Index**（索引）を使ってレコードを探す方法です。Indexは、番号などの値と、そのレコードがテーブルのどこにあるかを組にして、値の順に並べたものです。本の巻末の索引で、言葉からそれが載っている場所を引けるのと同じ考え方です。「準備」の章で主キーを作ったとき、番号用のIndexも作られています。番号の検索で100万件を調べずに済んだのは、番号を重複させない約束があるからではなく、このIndexを使えたからです[^pk-seqscan]。題名用のIndexはまだありません。
 
 [^buffers-default]: PostgreSQL 18では、`ANALYZE`を付ければ、`BUFFERS`を書かなくてもこの情報が表示されます。本書では、何を記録しているかが分かるように`BUFFERS`を書いています。
 
